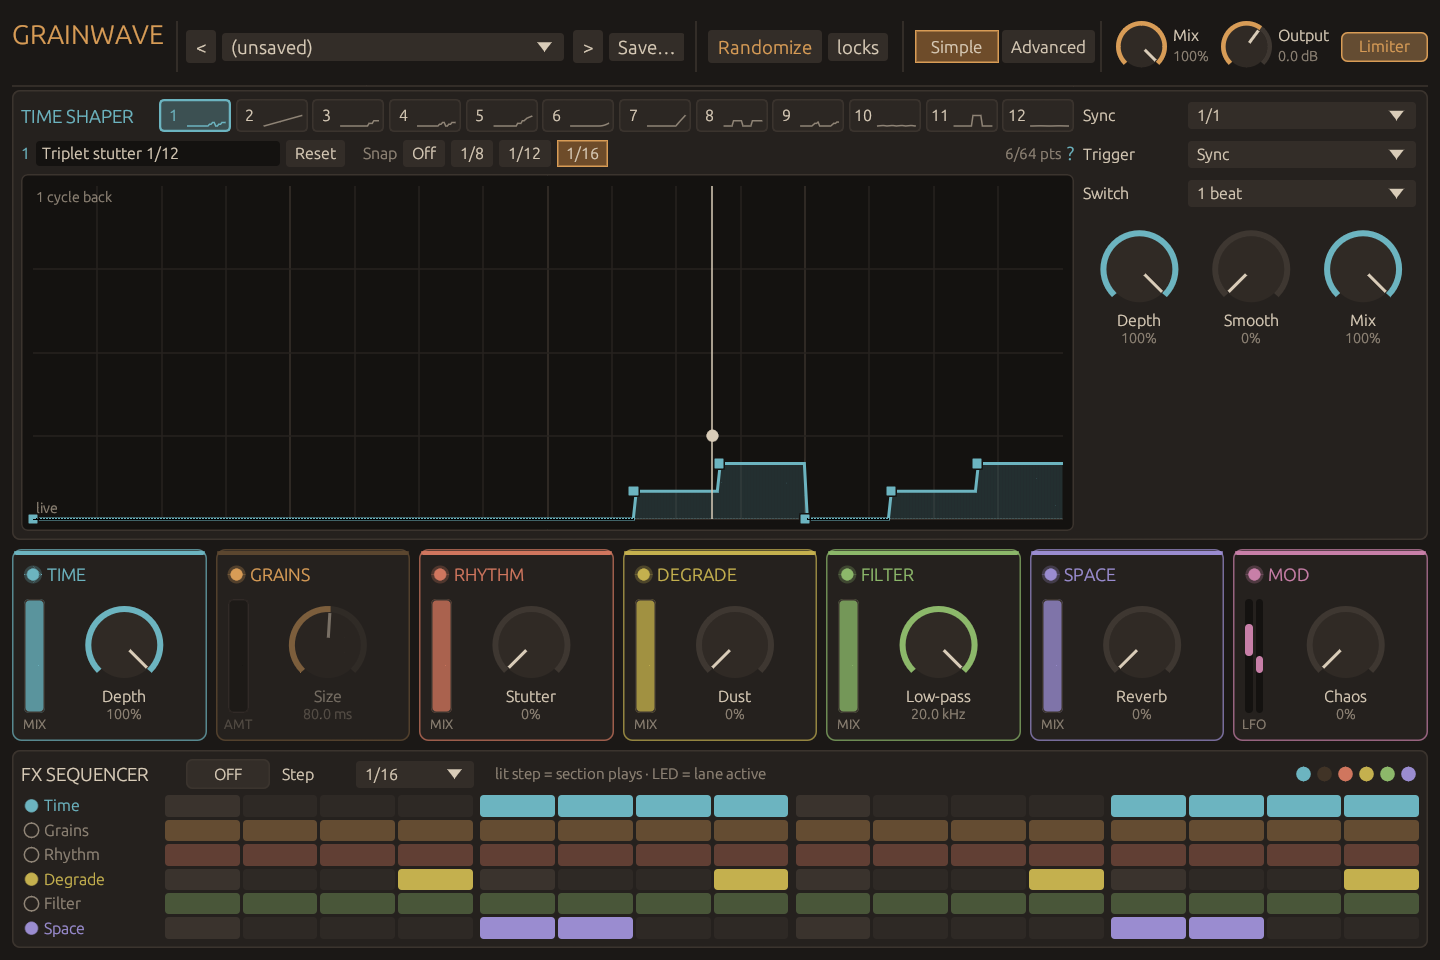
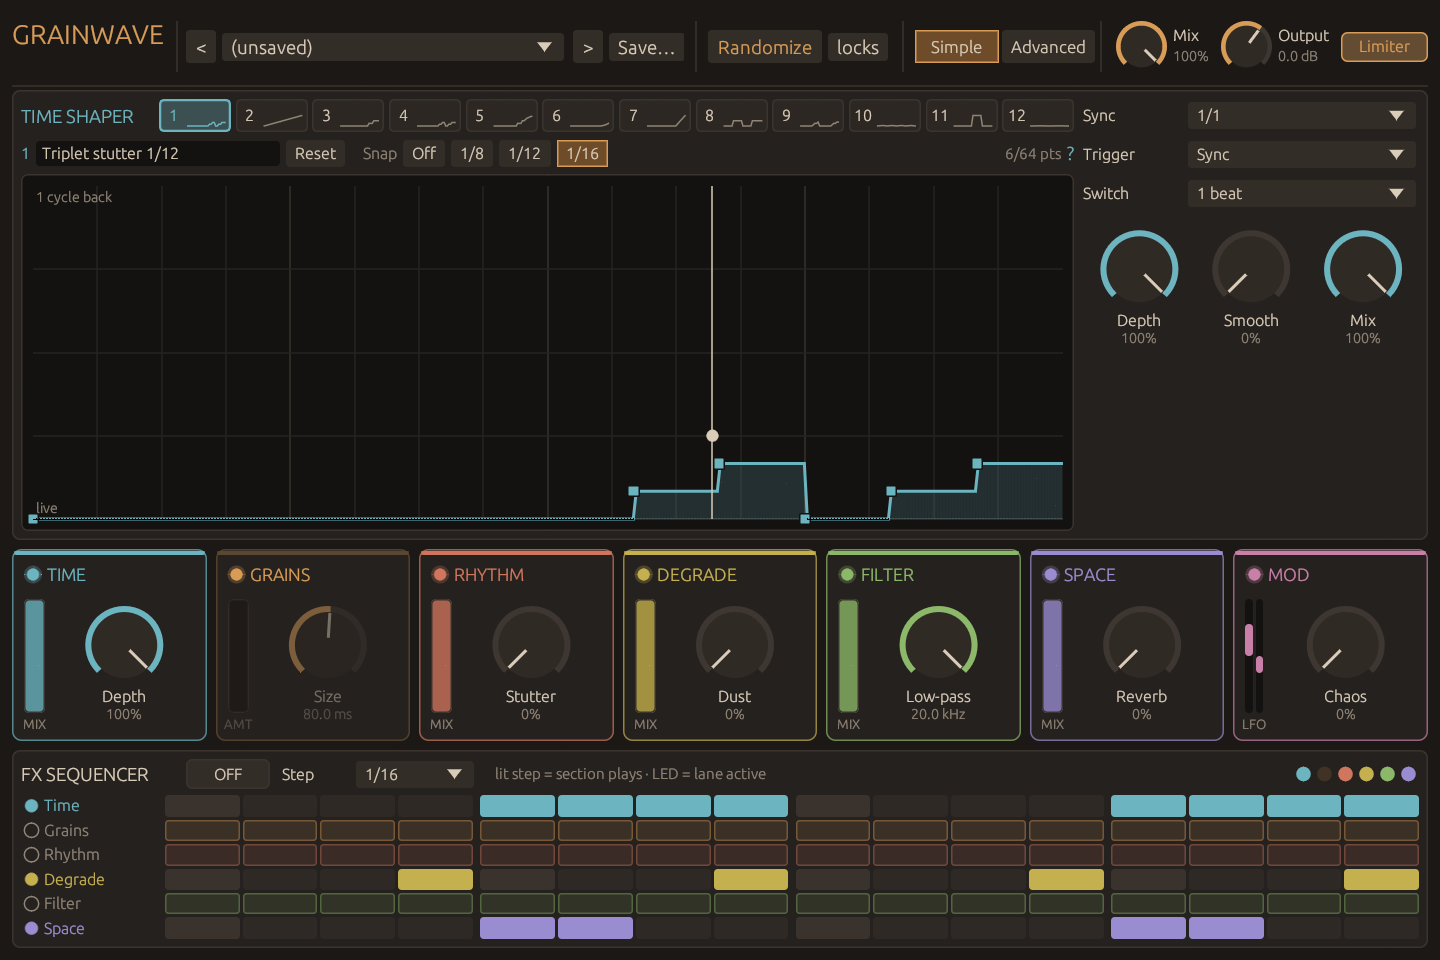
fix(ui): dim inactive sequencer lanes
Inactive lanes (lane-active bit 16 off) drew their on-steps at 35% of the lane
color, which on the default all-on lanes made Grains, Rhythm and Filter look
fully lit and louder than the active lanes. Inactive on-steps are now a faint
tint with a dim outline, so the pattern stays readable but the lane clearly
reads as off. Cell colors move into a small pure function with a unit test.

Also replaces an index loop in gain_dots that tripped clippy's
needless_range_loop.

Changed region(s): [[0.0938, 0.8438, 1.0, 0.9688]]

diff --git a/src/editor/sequencer.rs b/src/editor/sequencer.rs
@@ -141,18 +141,11 @@ pub fn sequencer_grid(ui: &mut Ui, rect: Rect, params: &GrainwaveParams, visual:
         for step in 0..SEQ_STEPS {
             let cell = Rect::from_min_size(pos2(col_x(step), row_y(lane)), vec2(cell_w, row_h));
             let on = word & (1 << step) != 0;
-            let fill = match (on, active) {
-                (true, true) => color,
-                (true, false) => dim(color, 0.35),
-                (false, _) => {
-                    if step % 4 == 0 {
-                        CELL_OFF_BEAT
-                    } else {
-                        CELL_OFF
-                    }
-                }
-            };
+            let (fill, edge) = cell_look(on, active, step, color);
             painter.rect_filled(cell, 2.0, fill);
+            if let Some(edge) = edge {
+                painter.rect_stroke(cell, 2.0, Stroke::new(1.0_f32, edge), StrokeKind::Inside);
+            }
             if hover == Some((lane, step)) {
                 painter.rect_stroke(cell, 2.0, Stroke::new(1.0_f32, TEXT), StrokeKind::Inside);
             }
@@ -167,16 +160,52 @@ pub fn sequencer_grid(ui: &mut Ui, rect: Rect, params: &GrainwaveParams, visual:
     resp.on_hover_text("Click: toggle step · drag: paint · beats of 4 are shaded");
 }
 
+/// Fill and optional outline of one cell. Active lanes light their on-steps in the lane
+/// color; inactive lanes (which never gate) keep their pattern visible only as a faint tint
+/// with a dim outline, so they read as switched off rather than as fully lit.
+fn cell_look(on: bool, active: bool, step: usize, color: Color32) -> (Color32, Option<Color32>) {
+    let off = if step & 3 == 0 { CELL_OFF_BEAT } else { CELL_OFF }; // first step of each beat
+    match (on, active) {
+        (true, true) => (color, None),
+        (true, false) => (dim(color, 0.12), Some(dim(color, 0.45))),
+        (false, _) => (off, None),
+    }
+}
+
 /// Small live readout of the six stage gains (used by the sequencer header).
 pub fn gain_dots(ui: &Ui, rect: Rect, visual: &VisualState) {
     let painter = ui.painter_at(rect);
     let n = SEQ_LANES as f32;
     let w = rect.width() / n;
-    for i in 0..SEQ_LANES {
-        let g = load_f32(&visual.section_gain[i]);
+    for (i, (gain, color)) in visual.section_gain.iter().zip(LANE_COLORS).enumerate() {
+        let g = load_f32(gain);
         let g = if g.is_finite() { g.clamp(0.0, 1.0) } else { 0.0 };
         let c = pos2(rect.left() + (i as f32 + 0.5) * w, rect.center().y);
         let r = (rect.height() * 0.32).min(w * 0.35);
-        painter.circle_filled(c, r, dim(LANE_COLORS[i], 0.15 + 0.85 * g));
+        painter.circle_filled(c, r, dim(color, 0.15 + 0.85 * g));
+    }
+}
+
+#[cfg(test)]
+mod tests {
+    use super::*;
+
+    fn luma(c: Color32) -> f32 {
+        0.2126 * c.r() as f32 + 0.7152 * c.g() as f32 + 0.0722 * c.b() as f32
+    }
+
+    #[test]
+    fn inactive_lanes_are_dimmed() {
+        for color in LANE_COLORS {
+            for step in [0, 1] {
+                let (lit, _) = cell_look(true, true, step, color);
+                let (inactive, edge) = cell_look(true, false, step, color);
+                let (off, _) = cell_look(false, true, step, color);
+                assert!(edge.is_some(), "inactive on-step keeps an outline so the pattern stays readable");
+                // An inactive on-step must sit much closer to an off cell than to a lit one.
+                let (l_lit, l_in, l_off) = (luma(lit), luma(inactive), luma(off));
+                assert!(l_in - l_off.min(l_in) < 0.25 * (l_lit - l_off), "{color:?} step {step}: {l_in} vs off {l_off}, lit {l_lit}");
+            }
+        }
     }
 }
